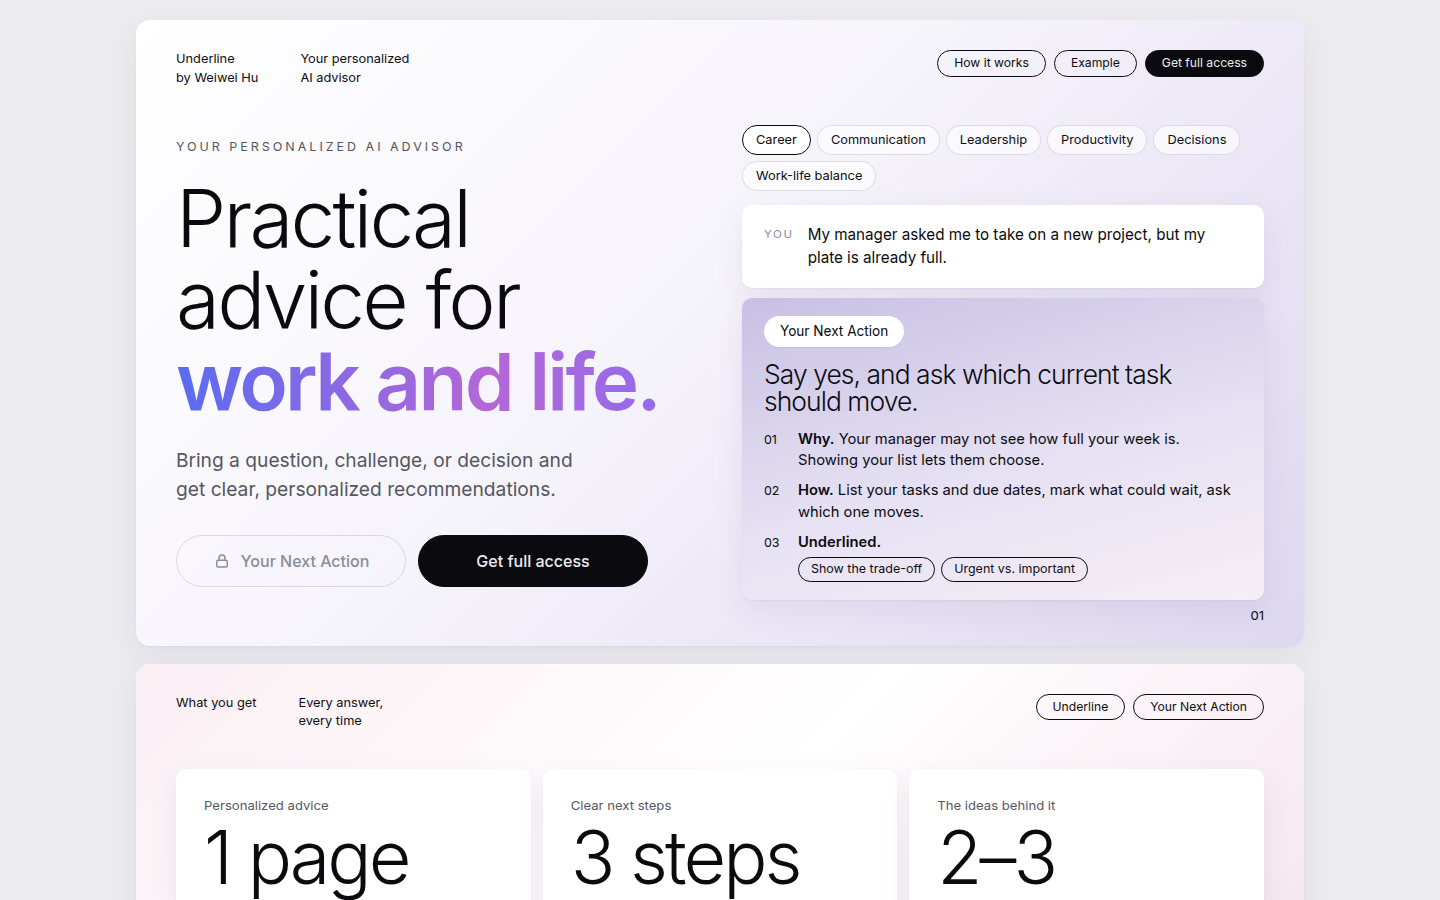
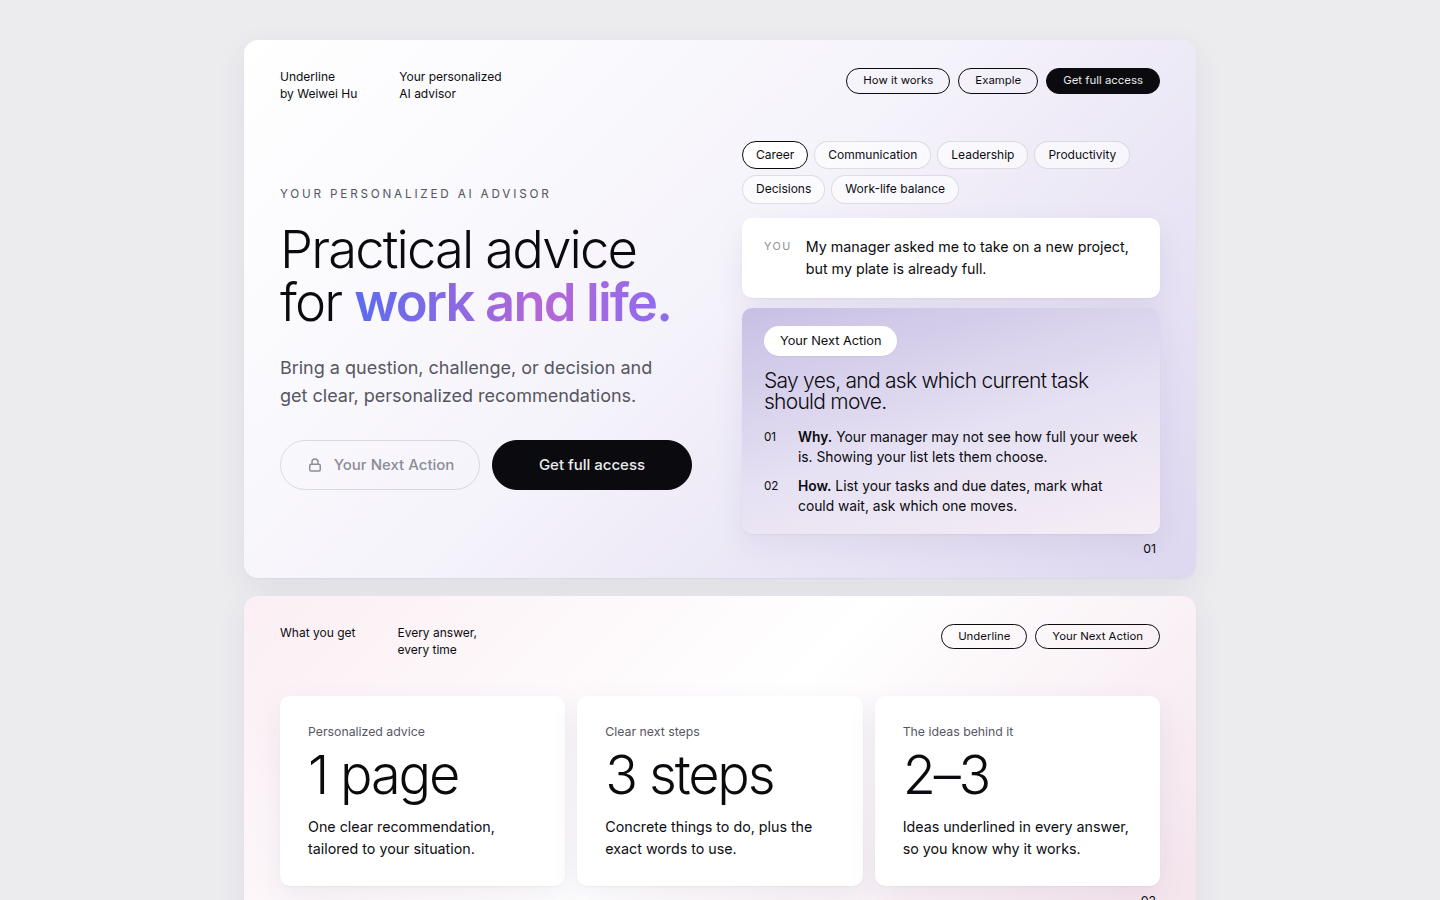
Centered layout, smaller type, both Get full access buttons, no Underlined box in hero

diff --git a/index.html b/index.html
@@ -26,16 +26,16 @@
 :root[data-theme="dark"]{--page:#0E0E12;--ink:#F2F2F5;--soft:#B3B4BD;--faint:#8A8B95;--line:rgba(255,255,255,.14);--card:#1A1A21;
   --s1:linear-gradient(135deg,#17171D,#1E1C29 60%,#2A2540);--s2:linear-gradient(135deg,#251B22,#17171D 55%,#2A1F2A);--s3:linear-gradient(160deg,#17171D,#1E1C29 60%,#262238);--lavcard:linear-gradient(165deg,#3B3460,#2A2640 60%,#2A2230);color-scheme:dark}
 *{box-sizing:border-box}
-html{font-size:16px;scroll-behavior:smooth}
+html{font-size:15px;scroll-behavior:smooth}
 @media (prefers-reduced-motion:reduce){html{scroll-behavior:auto}}
 body{margin:0;background:var(--page);color:var(--ink);font-family:var(--f);line-height:1.55;-webkit-font-smoothing:antialiased}
 a{color:inherit}
 :focus-visible{outline:2px solid #7C6CF0;outline-offset:3px}
 h1,h2,h3{margin:0;font-weight:300;letter-spacing:-.035em;line-height:1.02}
-.wrap{max-width:1200px;margin:0 auto;padding:20px 16px 40px;display:flex;flex-direction:column;gap:18px}
+.wrap{max-width:1000px;margin:0 auto;padding:40px 24px 56px;display:flex;flex-direction:column;gap:18px}
 
 /* slide panel */
-.slide{position:relative;overflow:hidden;border-radius:14px;box-shadow:var(--shadow);padding:30px 40px 46px;background:var(--s1)}
+.slide{position:relative;overflow:hidden;border-radius:14px;box-shadow:var(--shadow);padding:28px 36px 44px;background:var(--s1)}
 .slide.pink{background:var(--s2)}
 .slide.soft{background:var(--s3)}
 .bar{display:flex;justify-content:space-between;align-items:flex-start;gap:16px;margin-bottom:38px}
@@ -48,16 +48,16 @@ a.pill:hover{background:var(--ink);color:var(--page)}
 .num{position:absolute;right:40px;bottom:20px;font-size:.82rem}
 .orb{position:absolute;border-radius:50%;pointer-events:none;background:radial-gradient(circle at 32% 28%,#fff 0 6%,#B9C4FF 26%,#5F6FF0 66%,#4A55D8 100%);box-shadow:0 14px 30px rgba(74,85,216,.28)}
 .orb.p{background:radial-gradient(circle at 32% 28%,#fff 0 8%,#FFCDBB 32%,#F08AA8 85%);box-shadow:0 8px 18px rgba(240,138,168,.3)}
-@media (max-width:700px){.small span+span{display:none}.pills .pill:not(.dark):not(span){display:none}.slide{padding:22px 20px 44px}.num{right:20px}.bar{margin-bottom:26px}.small{gap:18px}.orb{display:none}}
+@media (max-width:700px){.wrap{padding:16px 14px 32px}.small span+span{display:none}.pills .pill:not(.dark):not(span){display:none}.slide{padding:22px 20px 44px}.num{right:20px}.bar{margin-bottom:26px}.small{gap:18px}.orb{display:none}}
 
 /* hero */
 .hero{display:grid;grid-template-columns:minmax(0,1fr) minmax(0,1fr);gap:44px;align-items:center}
 .eyebrow{font-size:.78rem;letter-spacing:.24em;text-transform:uppercase;color:var(--soft);margin:0 0 20px}
-.hero h1{font-size:clamp(2.7rem,6vw,5rem)}
-.hero h1 b{font-weight:600;display:block}
+.hero h1{font-size:clamp(2.3rem,4.6vw,3.5rem)}
+.hero h1 b{font-weight:600;white-space:nowrap}
 .grad{background:var(--grad);-webkit-background-clip:text;background-clip:text;color:transparent}
 .lead{font-size:clamp(1.02rem,1.5vw,1.2rem);color:var(--soft);margin:24px 0 30px;max-width:34ch}
-.btn{display:inline-flex;align-items:center;justify-content:center;gap:10px;border-radius:999px;font:500 1rem/1 var(--f);text-decoration:none;white-space:nowrap;padding:16px 30px;min-width:230px;border:1px solid var(--ink)}
+.btn{display:inline-flex;align-items:center;justify-content:center;gap:10px;border-radius:999px;font:500 1rem/1 var(--f);text-decoration:none;white-space:nowrap;padding:15px 18px;width:200px;border:1px solid var(--ink)}
 .btn.dark{background:var(--ink);color:var(--page)}
 .btn.lock{background:transparent;color:var(--faint);border-color:var(--line);cursor:not-allowed}
 @media (max-width:520px){.btn{width:100%}}
@@ -74,7 +74,7 @@ a.pill:hover{background:var(--ink);color:var(--page)}
 .acard .tag{display:inline-block;background:#fff;border-radius:999px;padding:5px 16px;font-size:.85rem;box-shadow:0 1px 2px rgba(0,0,0,.05)}
 .acard.lav{background:var(--lavcard)}
 @media (prefers-color-scheme: dark){:root:not([data-theme="light"]) .acard .tag{background:#2a2640}}
-.acard h3{font-size:1.65rem;margin:14px 0 14px}
+.acard h3{font-size:1.4rem;margin:14px 0 14px}
 .list{list-style:none;margin:0;padding:0;display:flex;flex-direction:column;gap:9px}
 .list li{display:grid;grid-template-columns:34px minmax(0,1fr);font-size:.92rem;line-height:1.45}
 .list li span:first-child{font-size:.78rem;padding-top:2px}
@@ -86,13 +86,13 @@ a.pill:hover{background:var(--ink);color:var(--page)}
 .stats{display:grid;grid-template-columns:repeat(3,minmax(0,1fr));gap:12px}
 .stat{background:var(--card);border-radius:10px;box-shadow:var(--shadow);padding:26px 28px}
 .stat small{display:block;font-size:.82rem;color:var(--soft);margin-bottom:6px}
-.stat b{display:block;font-weight:300;font-size:clamp(3rem,6vw,4.6rem);letter-spacing:-.04em;line-height:1}
+.stat b{display:block;font-weight:300;font-size:clamp(2.6rem,5vw,3.6rem);letter-spacing:-.04em;line-height:1}
 .stat p{margin:14px 0 0;font-size:.95rem}
 @media (max-width:820px){.stats{grid-template-columns:1fr}}
 
 /* how it works */
 .how{display:grid;grid-template-columns:minmax(0,.9fr) minmax(0,1.1fr);gap:40px;align-items:start}
-.how h2{font-size:clamp(2rem,4vw,3.2rem)}
+.how h2{font-size:clamp(1.8rem,3.4vw,2.6rem)}
 .how h2 b{font-weight:600;display:block}
 .steps{list-style:none;margin:0;padding:0;display:flex;flex-direction:column;gap:22px}
 .steps li{display:grid;grid-template-columns:40px minmax(0,1fr);gap:4px}
@@ -109,7 +109,7 @@ a.pill:hover{background:var(--ink);color:var(--page)}
 .fld:last-child{margin-bottom:0}
 .fld span{display:block;font-weight:500;font-size:.9rem;margin-bottom:6px}
 .fld p{margin:0;border:1px solid var(--line);border-radius:8px;padding:11px 14px;font-size:.95rem}
-.panel h3{font-size:1.9rem;margin-bottom:10px}
+.panel h3{font-size:1.6rem;margin-bottom:10px}
 .sec{border-top:1px solid var(--line);padding:16px 0;display:grid;grid-template-columns:150px minmax(0,1fr);gap:16px}
 .sec:last-child{padding-bottom:0}
 .sec h4{margin:0;font-size:.78rem;font-weight:500;letter-spacing:.14em;text-transform:uppercase;color:var(--soft);padding-top:3px}
@@ -125,7 +125,7 @@ a.pill:hover{background:var(--ink);color:var(--page)}
 
 /* closing */
 .closing{display:grid;grid-template-columns:minmax(0,1fr) 260px;gap:30px;align-items:end;min-height:320px}
-.closing h2{font-size:clamp(2.6rem,7.4vw,6.4rem);text-transform:uppercase;font-weight:400;letter-spacing:-.04em;line-height:.95}
+.closing h2{font-size:clamp(2.3rem,6vw,4.8rem);text-transform:uppercase;font-weight:400;letter-spacing:-.04em;line-height:.95}
 .closing .side{font-size:.85rem;line-height:1.5;display:flex;flex-direction:column;gap:18px;align-items:flex-start}
 .contact{display:flex;flex-wrap:wrap;gap:12px 36px;margin-top:46px;font-size:.84rem;align-items:center}
 .contact a{display:inline-flex;align-items:center;gap:10px;text-decoration:none}
@@ -148,7 +148,7 @@ a.pill:hover{background:var(--ink);color:var(--page)}
     <div class="hero">
       <div>
         <p class="eyebrow">Your personalized AI advisor</p>
-        <h1>Practical advice for <b class="grad">work and life.</b></h1>
+        <h1>Practical advice<br>for <b class="grad">work and life.</b></h1>
         <p class="lead">Bring a question, challenge, or decision and get clear, personalized recommendations.</p>
         <div class="ctas"><button class="btn lock" type="button" disabled aria-disabled="true"><svg viewBox="0 0 24 24" width="18" height="18" fill="none" stroke="currentColor" stroke-width="2" aria-hidden="true"><rect x="5" y="11" width="14" height="9" rx="2"/><path d="M8 11V8a4 4 0 0 1 8 0v3"/></svg>Your Next Action</button>
         <a class="btn dark" href="https://buy.stripe.com/cNi14nfzP6RKfkX9F2eQM00" target="_blank" rel="noopener">Get full access</a></div>
@@ -162,7 +162,6 @@ a.pill:hover{background:var(--ink);color:var(--page)}
           <ul class="list">
             <li><span>01</span><span><b>Why.</b> Your manager may not see how full your week is. Showing your list lets them choose.</span></li>
             <li><span>02</span><span><b>How.</b> List your tasks and due dates, mark what could wait, ask which one moves.</span></li>
-            <li><span>03</span><span><b>Underlined.</b><span class="chips"><span>Show the trade-off</span><span>Urgent vs. important</span></span></span></li>
           </ul>
         </div>
       </div>
